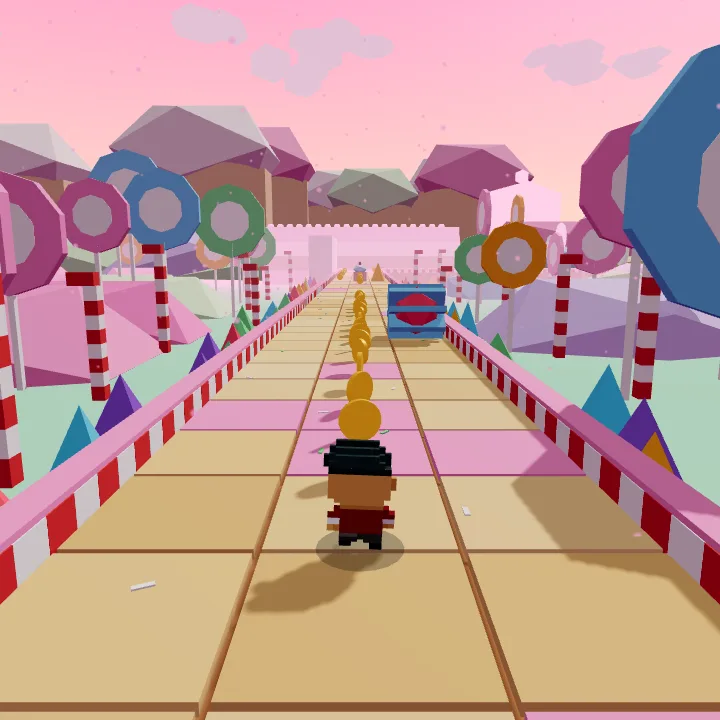
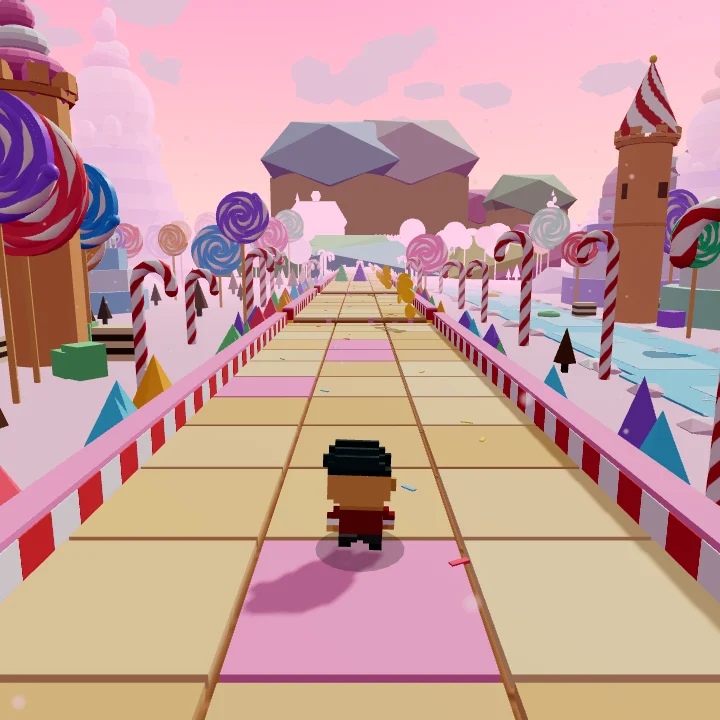
Launch Chonk Run: hub tile back, indexable, fresh tile and share images
Tile and share image are new captures of the current game (swirl-lollipop
Candy Kingdom, rebuilt Molten Core); the old ones showed scenes since removed.

Claude-Session: https://claude.ai/code/session_01CPbSeiDZLW3NT94gxH5zpC

diff --git a/index.html b/index.html
@@ -4,11 +4,11 @@
 <meta charset="utf-8">
 <meta name="viewport" content="width=device-width, initial-scale=1, viewport-fit=cover">
 <title>Chonkit: tools made from Chonks</title>
-<meta name="description" content="Mosaics, pixel art, ASCII, sketches, a 3D gallery and a live Bitcoin battle, all made from the Chonks on Base. Free, in your browser.">
+<meta name="description" content="Mosaics, pixel art, ASCII, sketches, a 3D gallery, a 3D runner and a live Bitcoin battle, all made from the Chonks on Base. Free, in your browser.">
 <meta property="og:type" content="website">
 <meta property="og:site_name" content="Chonkit">
 <meta property="og:title" content="Chonkit: tools made from Chonks">
-<meta property="og:description" content="Mosaics, pixel art, ASCII, sketches, a 3D gallery and a live Bitcoin battle, all made from the Chonks on Base.">
+<meta property="og:description" content="Mosaics, pixel art, ASCII, sketches, a 3D gallery, a 3D runner and a live Bitcoin battle, all made from the Chonks on Base.">
 <meta property="og:url" content="https://chonkit.xyz/">
 <meta property="og:image" content="https://chonkit.xyz/og.png?v=4">
 <meta property="og:image:width" content="1200">
@@ -228,6 +228,8 @@ const TOOLS = [
   { id: "gallery", clip: true, group: "play", cat: "3D", name: "Gallery", href: "gallery.html", tint: "--p-sage", desc: "A 3D gallery for your mosaics. Walk it in first person.", keys: "3d museum walk statue hologram" },
   { id: "wars", clip: true, group: "play", cat: "Game", name: "Chonk Wars", href: "wars/", tint: "--p-lilac", desc: "200 Chonks battle over the live Bitcoin price. Every trade is a blow, and you can jump in and play as any Chonk.", keys: "game battle bitcoin btc cavalry war", isNew: true, live: true, cta: "Play now",
     points: ["Live BTC price drives every hit", "Airstrikes and a 10-a-side cavalry charge", "Load any wallet as your army"] },
+  { id: "run", group: "play", cat: "Game", name: "Chonk Run", href: "run/", tint: "--p-rose", desc: "A 3D endless runner starring any Chonk. Dodge, jump and slide through 9 worlds, and chase the leaderboard.", keys: "game runner run temple subway endless 3d leaderboard daily", isNew: true, live: true, cta: "Play now",
+    points: ["Load any Chonk or wallet", "9 worlds, a Daily Run and a store", "Lock your name with your wallet"] },
   { id: "gifs", clip: true, group: "watch", cat: "Animation", name: "GIFs", href: "gifs/", tint: "--p-sky", desc: "Blender animations. Download the MP4 or a GIF to post.", keys: "gif mp4 video blender gm animation", isNew: true },
 ];
 const $ = (id) => document.getElementById(id);

diff --git a/run/index.html b/run/index.html
@@ -1,7 +1,6 @@
 <!DOCTYPE html>
 <html lang="en">
 <head>
-<meta name="robots" content="noindex, nofollow">
 <meta charset="utf-8">
 <meta name="viewport" content="width=device-width,initial-scale=1,viewport-fit=cover,user-scalable=no">
 <title>Chonk Run · Chonkit</title>
@@ -11,7 +10,7 @@
 <meta property="og:title" content="Chonk Run · Chonkit">
 <meta property="og:description" content="Run any Chonk through 9 worlds. Dodge, jump and slide, chase the leaderboard and the Daily Run.">
 <meta property="og:url" content="https://chonkit.xyz/run/">
-<meta property="og:image" content="https://chonkit.xyz/run/og.png?v=1">
+<meta property="og:image" content="https://chonkit.xyz/run/og.png?v=2">
 <meta property="og:image:width" content="1200">
 <meta property="og:image:height" content="630">
 <meta name="twitter:card" content="summary_large_image">
